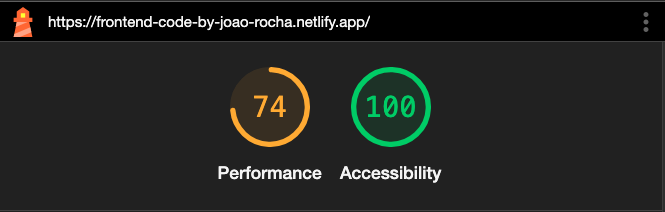
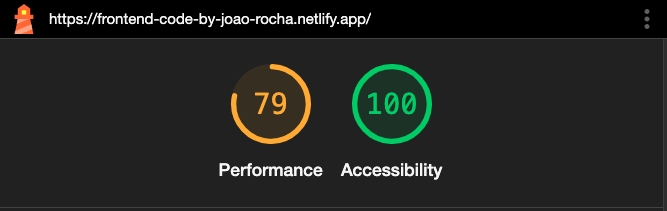
feat: updates README and lighthouse report after new deployment

diff --git a/README.md b/README.md
@@ -111,6 +111,6 @@ Lines        : 94.44% ( 34/36 )
 ## 📈 Future Work
 
 1. Complete test coverage to achieve 90%
-2. Improve styling
-3. Improve performance in Mobile
+2. Improve styling and stylesheets organization (consider using ITSCSS)
+3. Improve performance in Mobile to be at least 80
    
